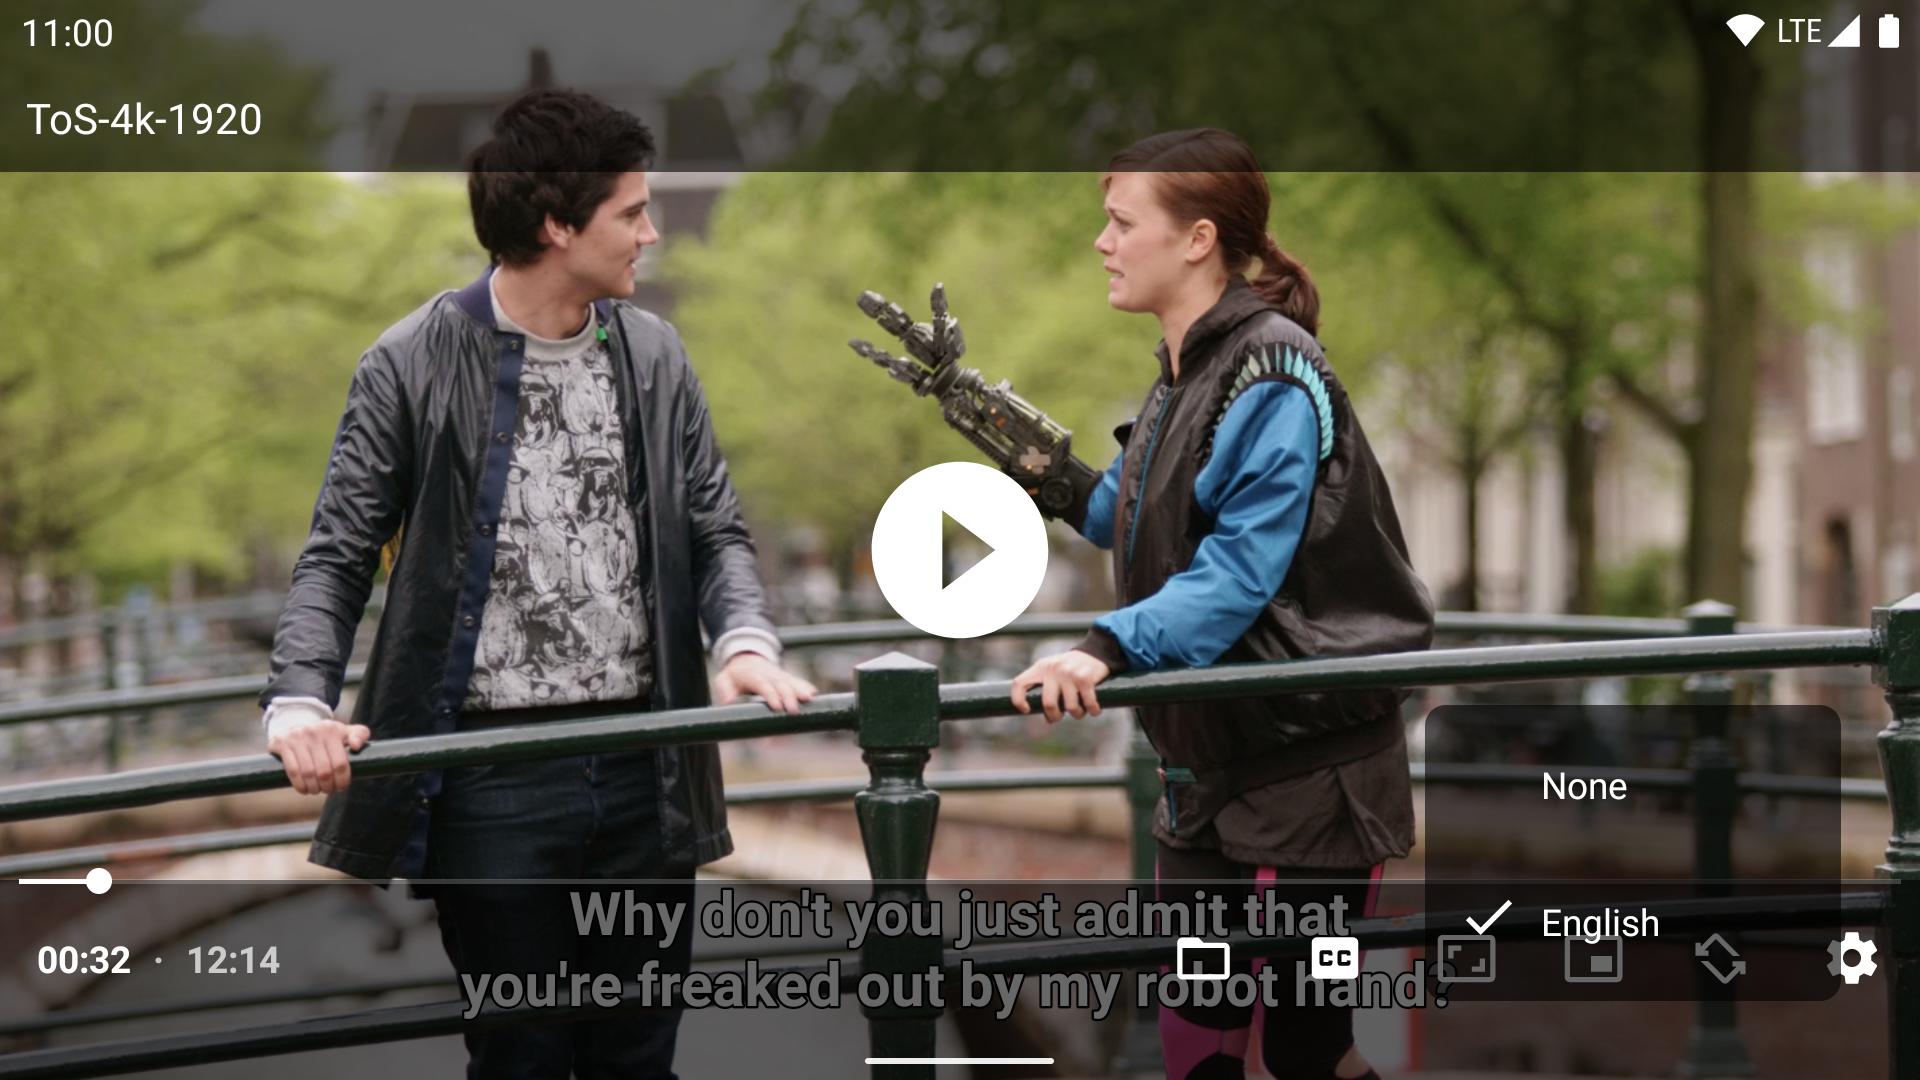
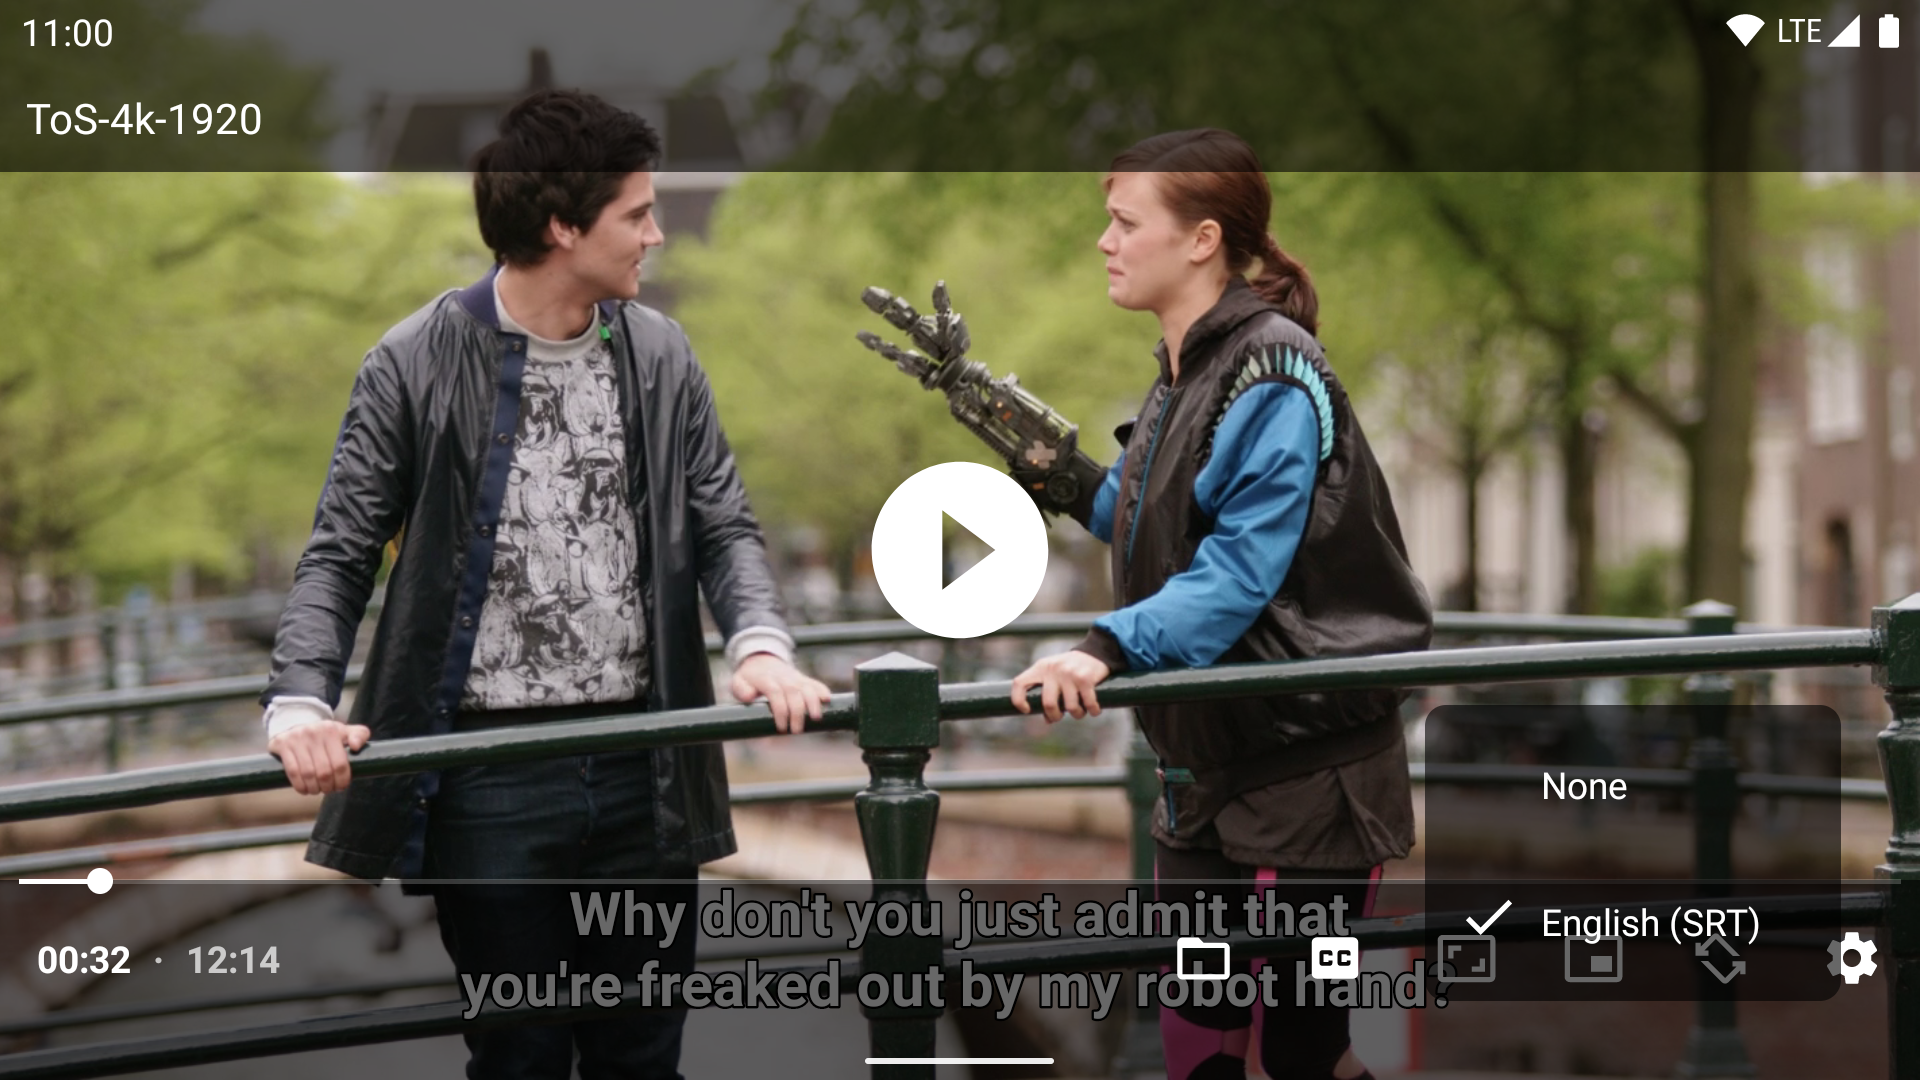
Don't always use subtitle file name as label

diff --git a/app/src/main/java/com/brouken/player/PlayerActivity.java b/app/src/main/java/com/brouken/player/PlayerActivity.java
@@ -821,7 +821,9 @@ public class PlayerActivity extends Activity {
             if (mPrefs.subtitleUri != null && Utils.fileExists(this, mPrefs.subtitleUri)) {
                 final String subtitleMime = SubtitleUtils.getSubtitleMime(mPrefs.subtitleUri);
                 final String subtitleLanguage = SubtitleUtils.getSubtitleLanguage(mPrefs.subtitleUri);
-                final String subtitleName = Utils.getFileName(this, mPrefs.subtitleUri);
+                String subtitleName = null;
+                if (subtitleLanguage == null)
+                    subtitleName = Utils.getFileName(this, mPrefs.subtitleUri);
 
                 MediaItem.Subtitle subtitle = new MediaItem.Subtitle(mPrefs.subtitleUri, subtitleMime,
                         subtitleLanguage, C.SELECTION_FLAG_DEFAULT, C.ROLE_FLAG_SUBTITLE, subtitleName);
